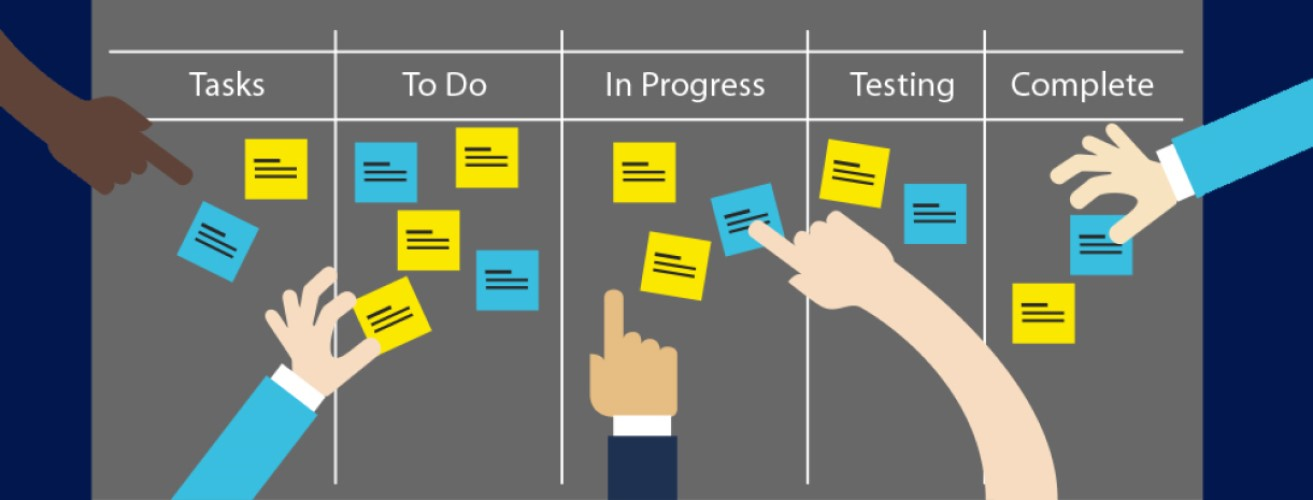
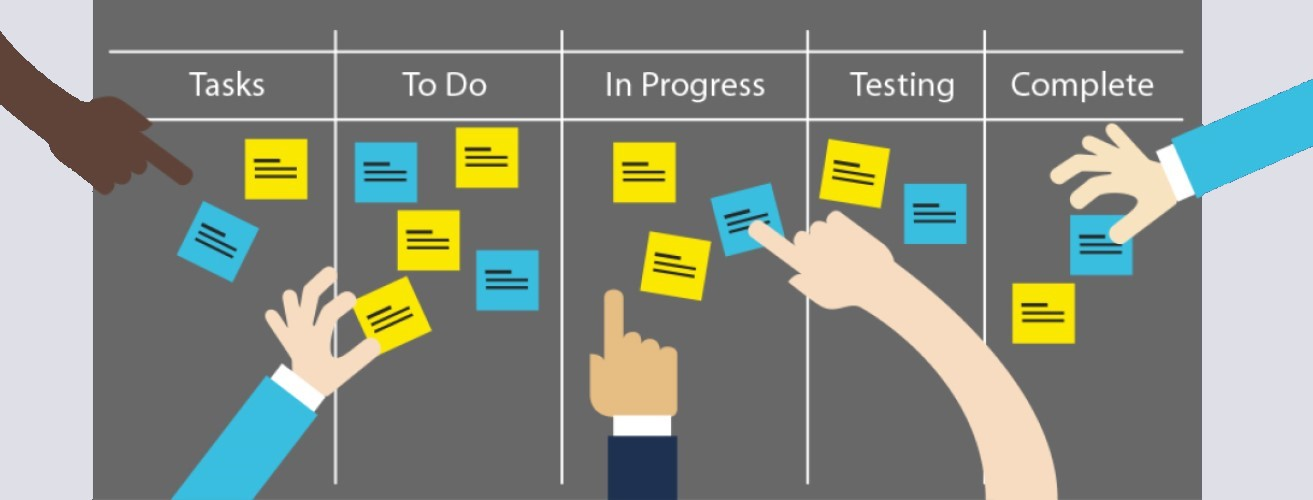
background color change

diff --git a/clientsrc/src/pages/Home.vue b/clientsrc/src/pages/Home.vue
@@ -18,7 +18,7 @@ export default {
 
 <style scoped>
 .home {
-  min-height: 100vh;
+  min-height: 93.25vh;
   display: flex;
   justify-content: center;
   flex-direction: column;
@@ -28,6 +28,6 @@ export default {
   background-size: 100vw;
   background-position: center;
   background-repeat: no-repeat;
-  background-color: #02174e;
+  background-color: #dfdfe7;
 }
 </style>
